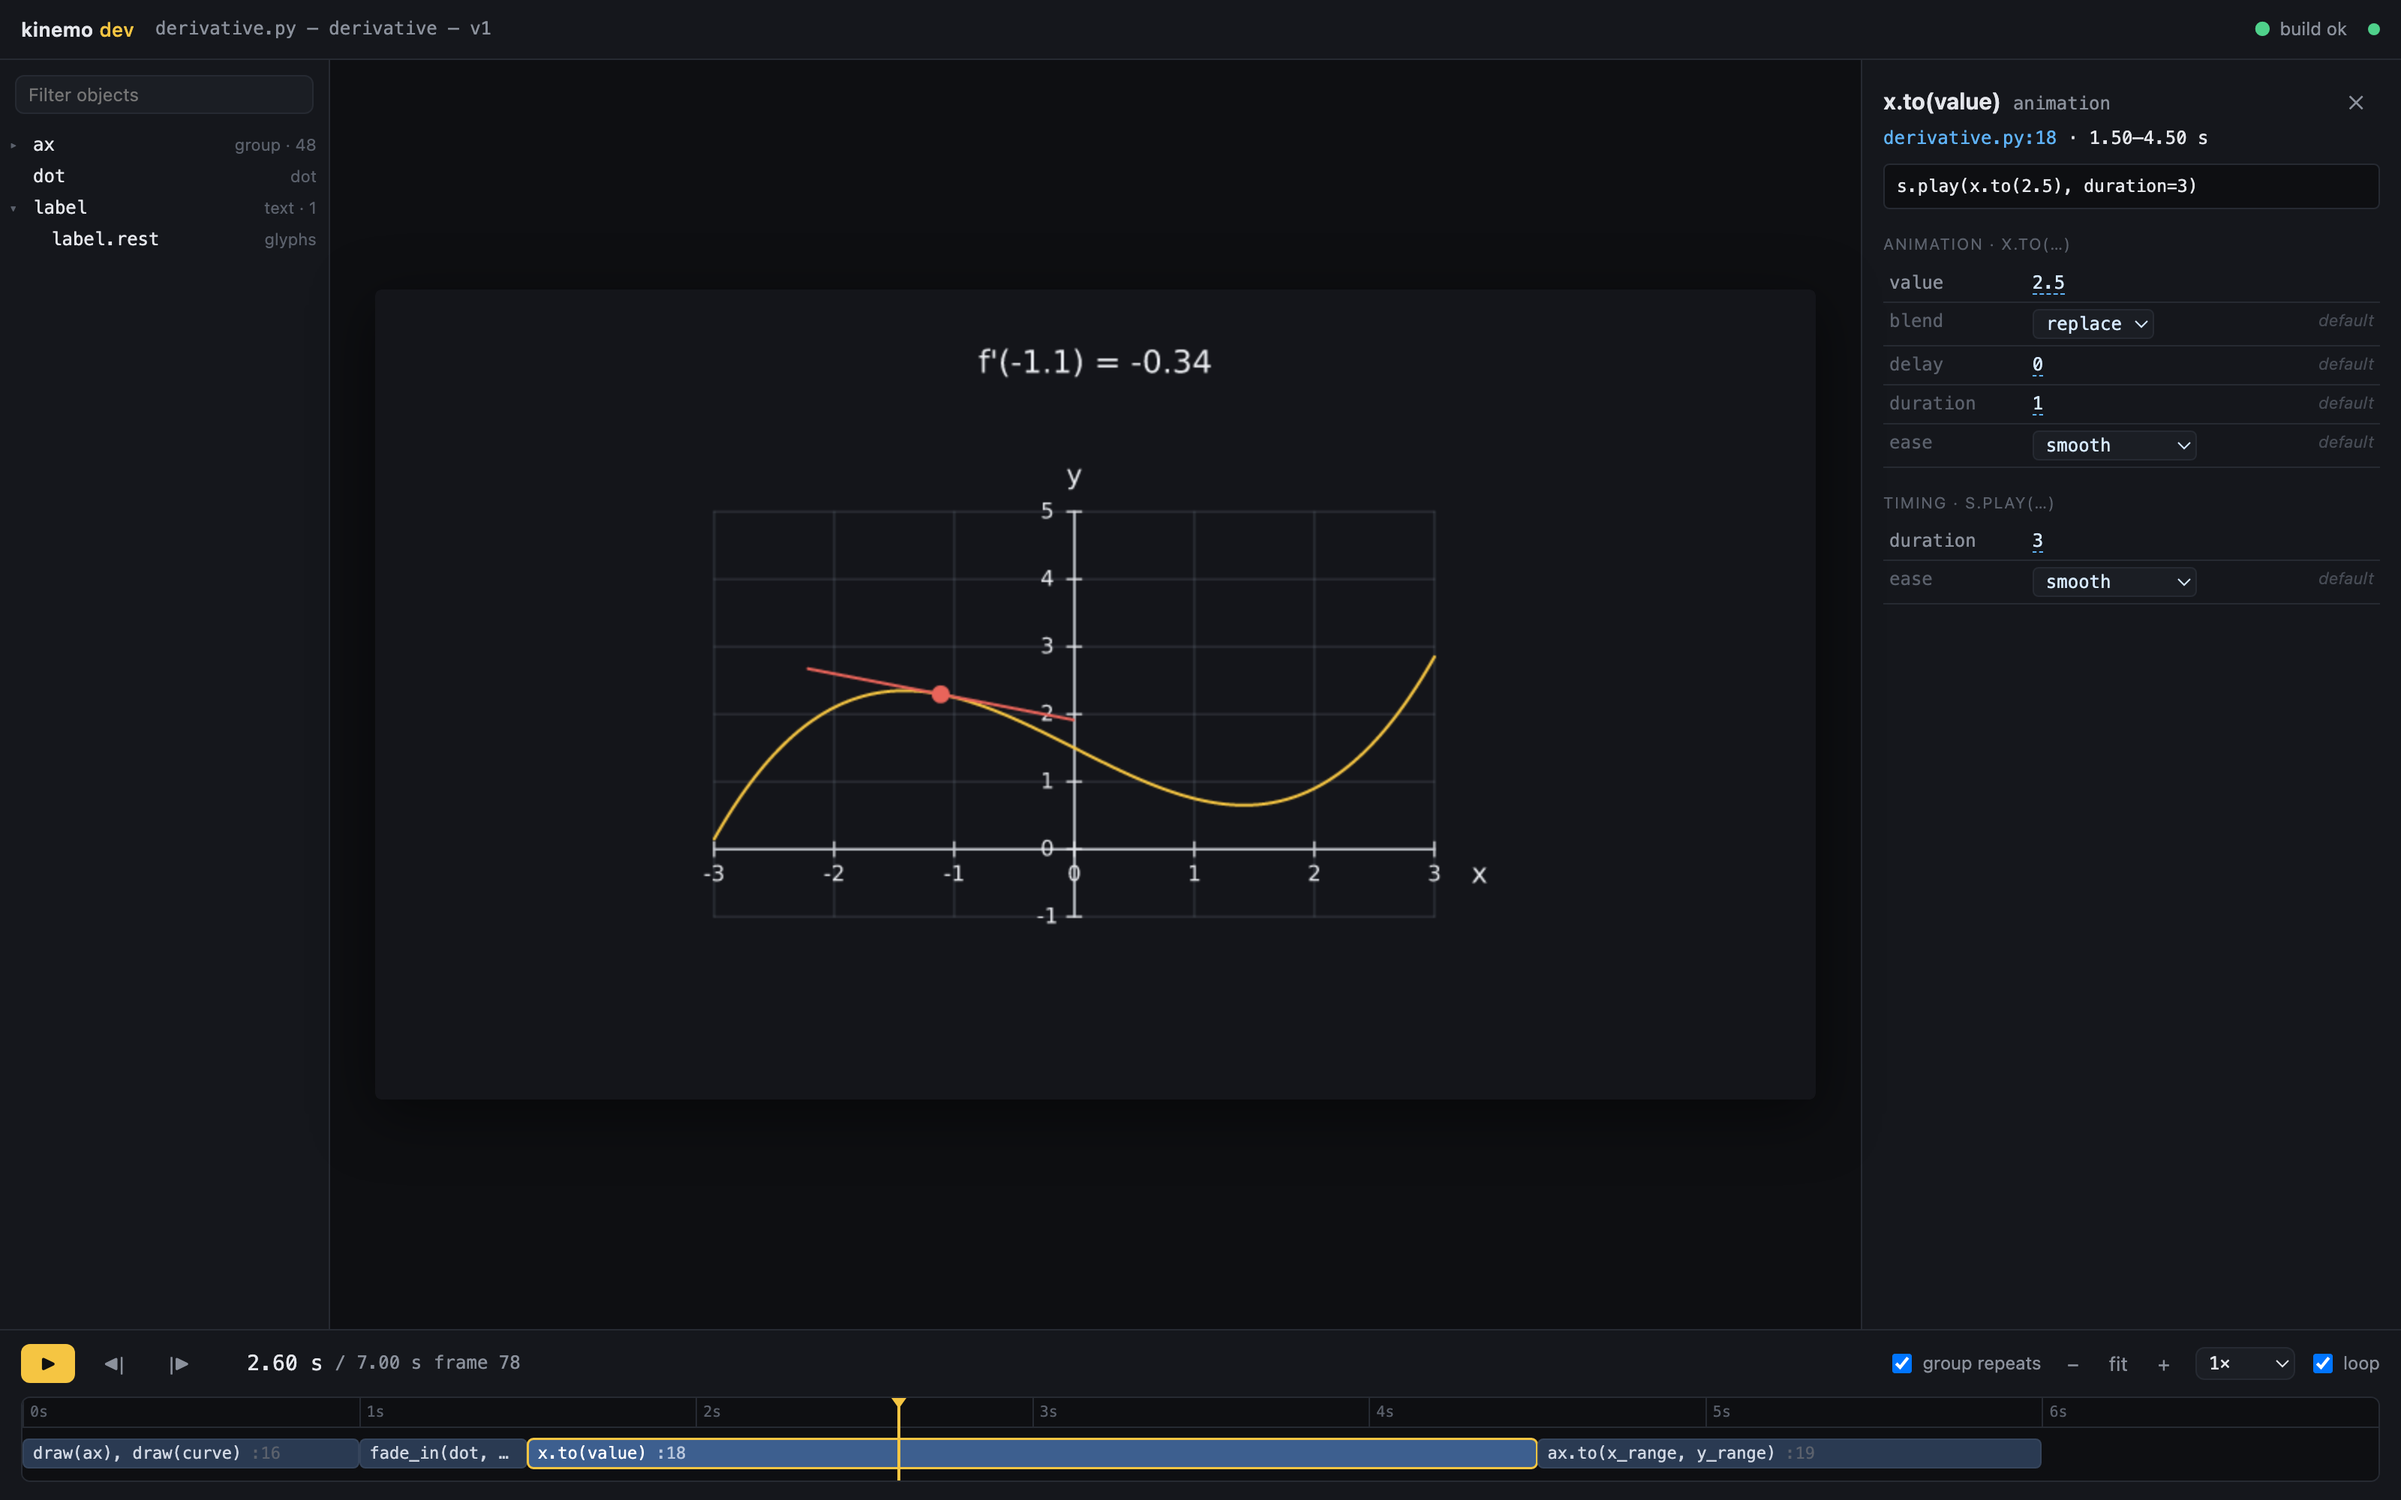
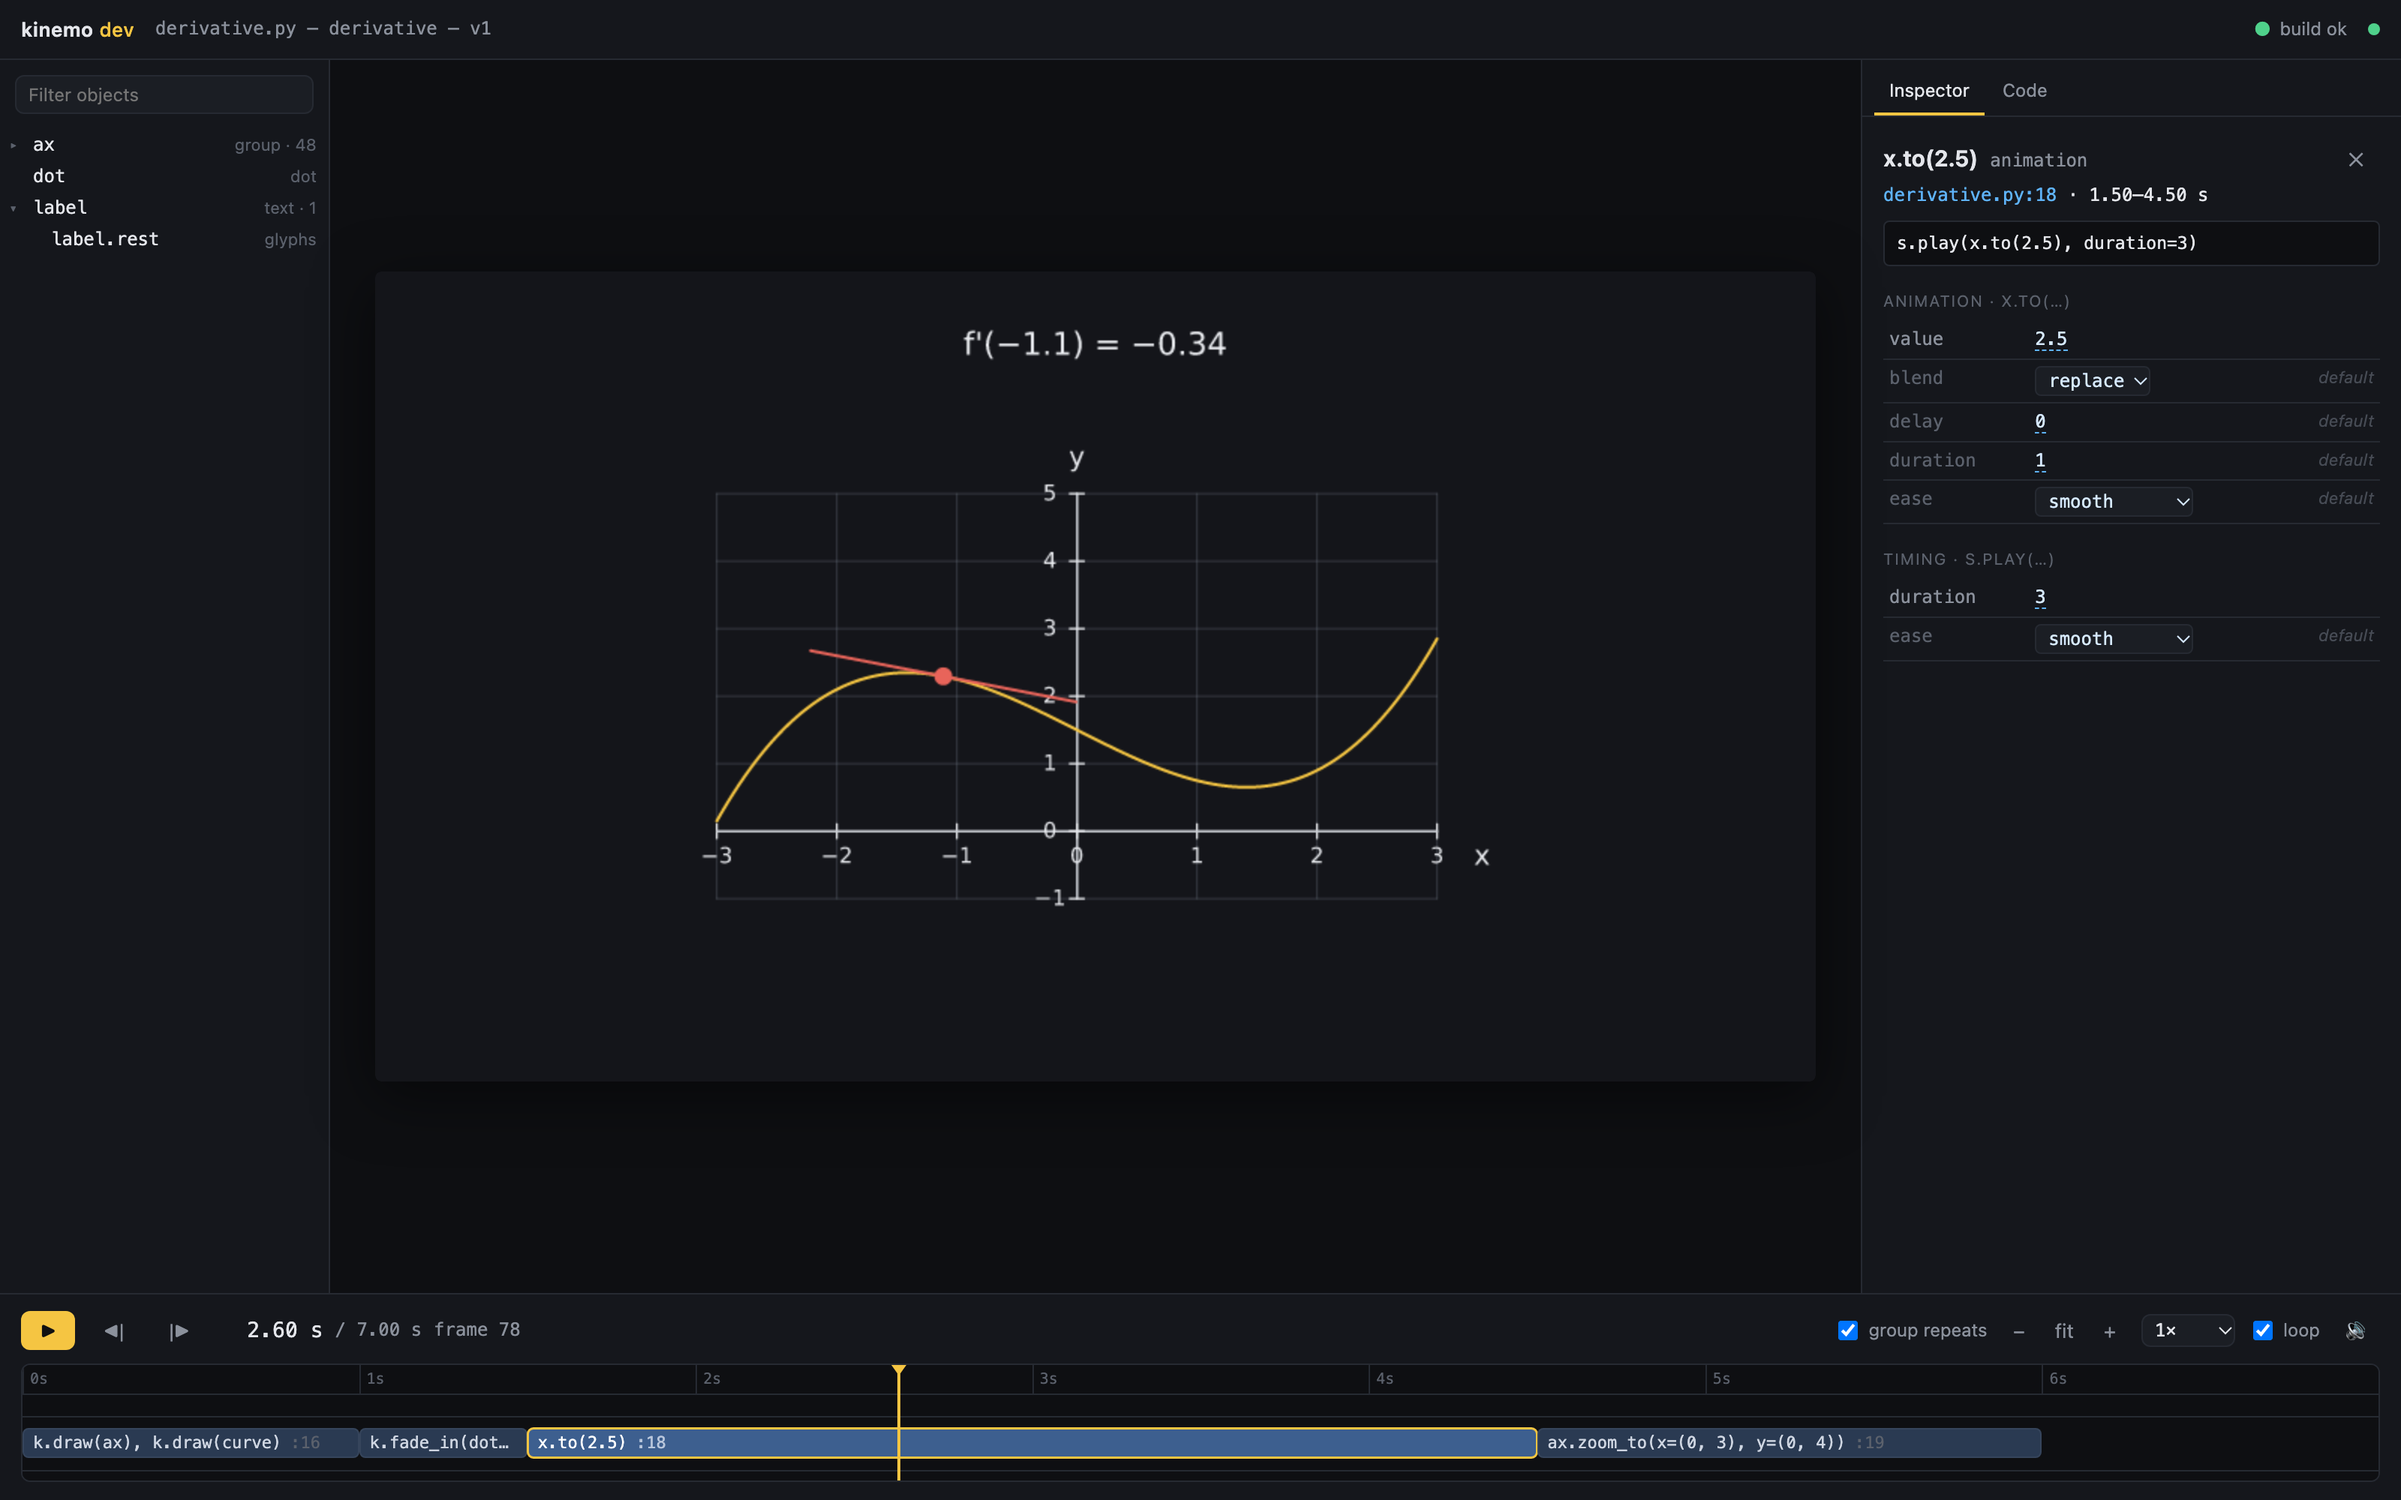
Show the code view on the website and open the editor on it from the URL

diff --git a/crates/kinemo-server/ui/main.js b/crates/kinemo-server/ui/main.js
@@ -2,9 +2,9 @@
 "use strict";
 
 import { installAudio } from "./audio.js";
-import { installBreakpoints } from "./breakpoints.js";
+import { hasBreakpoint, installBreakpoints, toggleBreakpoint } from "./breakpoints.js";
 import { installCanvas } from "./canvas.js";
-import { installCodeView } from "./code_view.js";
+import { installCodeView, setPane } from "./code_view.js";
 import { installColorPicker } from "./colorpicker.js";
 import { connect } from "./connection.js";
 import { installEditing } from "./editing.js";
@@ -23,12 +23,17 @@ import { installWatch } from "./watch.js";
 
 /**
  * The page can open on a given state, for links and screenshots:
- * `#t=1.5` (instant), `select=dot` (an object, by label), `bar=2` (a timeline bar).
+ * `#t=1.5` (instant), `select=dot` (an object, by label), `bar=2` (a timeline bar),
+ * `pane=code` (the Code tab), `bp=17,20` (breakpoints on those lines of the scene file).
  * Changing the hash later moves the open page there too.
  */
 function applyLocationHash() {
   const params = new URLSearchParams(location.hash.slice(1));
   if (params.has("t")) state.t = Math.min(Math.max(0, Number(params.get("t")) || 0), lastFrameTime());
+  if (params.has("pane")) setPane(params.get("pane"));
+  for (const line of (params.get("bp") || "").split(",").map(Number).filter((n) => n > 0)) {
+    if (!hasBreakpoint(state.meta.file, line)) toggleBreakpoint(state.meta.file, line);
+  }
   if (params.has("bar")) return selectBar(Number(params.get("bar")));
   const label = params.get("select");
   const found = label && Object.entries(state.meta.objects).find(([, info]) => info.label === label);

diff --git a/crates/kinemo-server/ui/style.css b/crates/kinemo-server/ui/style.css
@@ -410,7 +410,7 @@ a:hover { text-decoration: underline; }
 .code-line.has-runs .when { color: var(--accent-2); cursor: pointer; }
 .code-line.has-runs .when:hover { text-decoration: underline; }
 .code-line.has-runs .ln { color: var(--text-dim); cursor: pointer; }
-.code-line .ln.bp { color: #fff; background: radial-gradient(circle at calc(100% - 22px) 50%, var(--error) 5px, transparent 5.5px); }
+.code-line .ln.bp { color: var(--text); background: radial-gradient(circle at 10px 50%, var(--error) 4.5px, transparent 5px); }
 .code-breakpoints { border-top: 1px solid var(--line); padding: 6px 10px; max-height: 30%; overflow: auto; }
 .bp-head { display: flex; align-items: center; }
 .bp-row { display: flex; align-items: center; gap: 6px; font-size: 12px; padding: 2px 0; }

diff --git a/website/src/lib/components/landing/Editor.svelte b/website/src/lib/components/landing/Editor.svelte
@@ -51,4 +51,17 @@
       it, including the ones it leaves out, with their defaults.
     </figcaption>
   </figure>
+  <figure class="screenshot">
+    <img
+      src="{base}/img/editor-code.png"
+      width="1600"
+      height="1000"
+      loading="lazy"
+      alt="The preview's Code tab: the scene's code beside the frame, the statement running at the playhead lit, each statement's time in the gutter and a breakpoint on the zoom."
+    />
+    <figcaption>
+      The Code tab follows the playhead through your code. Set breakpoints, step statement by
+      statement, see who called a clip and watch props change, without editing anything.
+    </figcaption>
+  </figure>
 </section>

diff --git a/crates/kinemo-server/ui/code_view.js b/crates/kinemo-server/ui/code_view.js
@@ -240,7 +240,7 @@ function onSelection() {
   }
 }
 
-function setPane(pane) {
+export function setPane(pane) {
   const code = pane === "code";
   $("tab-code").classList.toggle("active", code);
   $("tab-inspector").classList.toggle("active", !code);

diff --git a/website/capture.py b/website/capture.py
@@ -14,8 +14,10 @@ import os
 import shutil
 import socket
 import subprocess
+import struct
 import sys
 import time
+import zlib
 from pathlib import Path
 
 WEBSITE = Path(__file__).resolve().parent
@@ -26,6 +28,8 @@ OUT = WEBSITE / "static" / "img"
 SHOTS = {
     "editor-inspector": "t=2.6&select=dot",
     "editor-bar": "t=2.6&bar=2",
+    # The Code tab following the playhead, with a breakpoint on the zoom.
+    "editor-code": "t=2.6&pane=code&bp=19",
 }
 WINDOW = (1600, 1000)
 SCALE = 2
@@ -36,6 +40,61 @@ CHROME_CANDIDATES = (
     "google-chrome",
     "chromium",
 )
+
+
+#: Screenshots taken of a page before it is ready are retried this many times.
+ATTEMPTS = 5
+
+
+def png_pixels(path: Path) -> tuple[int, int, list[bytes]]:
+    """Width, height and the RGB(A) rows of a PNG written by Chrome (8-bit, no interlace)."""
+    data = path.read_bytes()
+    width, height, depth, color = struct.unpack(">IIBB", data[16:26])
+    channels = {2: 3, 6: 4}[color]
+    assert depth == 8, "capture.py reads 8-bit PNGs"
+    chunks, pos = [], 8
+    while pos < len(data):
+        (length,) = struct.unpack(">I", data[pos : pos + 4])
+        kind = data[pos + 4 : pos + 8]
+        if kind == b"IDAT":
+            chunks.append(data[pos + 8 : pos + 8 + length])
+        pos += 12 + length
+    raw = zlib.decompress(b"".join(chunks))
+    stride = width * channels
+    rows: list[bytes] = []
+    prev = bytearray(stride)
+    for y in range(height):
+        kind, line = raw[y * (stride + 1)], bytearray(raw[y * (stride + 1) + 1 : (y + 1) * (stride + 1)])
+        for i in range(stride):
+            left = line[i - channels] if i >= channels else 0
+            up = prev[i]
+            corner = prev[i - channels] if i >= channels else 0
+            if kind == 1:
+                line[i] = (line[i] + left) & 0xFF
+            elif kind == 2:
+                line[i] = (line[i] + up) & 0xFF
+            elif kind == 3:
+                line[i] = (line[i] + (left + up) // 2) & 0xFF
+            elif kind == 4:
+                p = left + up - corner
+                pa, pb, pc = abs(p - left), abs(p - up), abs(p - corner)
+                line[i] = (line[i] + (left if pa <= pb and pa <= pc else up if pb <= pc else corner)) & 0xFF
+        rows.append(bytes(line))
+        prev = line
+    return width, height, rows
+
+
+def frame_drawn(path: Path) -> bool:
+    """Whether the frame has arrived: before the scene, the frame area is pure black."""
+    width, height, rows = png_pixels(path)
+    channels = len(rows[0]) // width
+    # The middle of the stage (between the outliner and the side panel), above the timeline.
+    x0, y0 = int(width * 0.40), int(height * 0.40)
+    for y in range(y0, y0 + 20, 4):
+        for x in range(x0, x0 + 20, 4):
+            if any(rows[y][x * channels : x * channels + 3]):
+                return True
+    return False
 
 
 def chrome() -> str:
@@ -78,16 +137,23 @@ def main() -> int:
         OUT.mkdir(parents=True, exist_ok=True)
         for name, state in SHOTS.items():
             target = OUT / f"{name}.png"
-            subprocess.run(
-                [
-                    browser, "--headless=new", "--disable-gpu", "--hide-scrollbars",
-                    # CI containers have no user namespace for Chrome's sandbox.
-                    *(["--no-sandbox"] if os.environ.get("CI") else []),
-                    f"--window-size={WINDOW[0]},{WINDOW[1]}", f"--force-device-scale-factor={SCALE}",
-                    "--virtual-time-budget=6000", f"--screenshot={target}", f"http://127.0.0.1:{port}/#{state}",
-                ],
-                check=True, capture_output=True,
-            )
+            # The page fills in once its WebSocket delivers the scene, which headless Chrome's
+            # virtual time does not wait for: retry until the frame is drawn.
+            for _ in range(ATTEMPTS):
+                subprocess.run(
+                    [
+                        browser, "--headless=new", "--disable-gpu", "--hide-scrollbars",
+                        # CI containers have no user namespace for Chrome's sandbox.
+                        *(["--no-sandbox"] if os.environ.get("CI") else []),
+                        f"--window-size={WINDOW[0]},{WINDOW[1]}", f"--force-device-scale-factor={SCALE}",
+                        "--virtual-time-budget=6000", f"--screenshot={target}", f"http://127.0.0.1:{port}/#{state}",
+                    ],
+                    check=True, capture_output=True,
+                )
+                if frame_drawn(target):
+                    break
+            else:
+                raise SystemExit(f"capture.py: {name} still shows the page before the scene arrived")
             print(f"wrote {target.relative_to(ROOT)}")
     finally:
         server.terminate()
